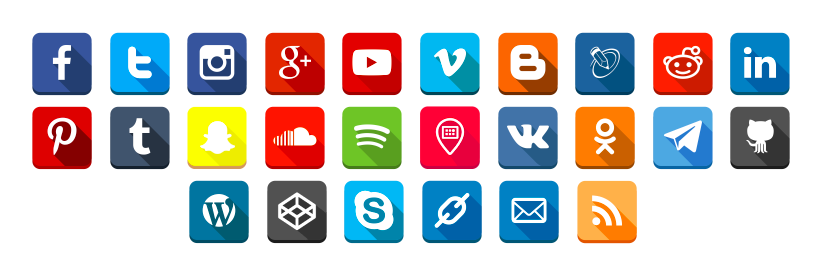
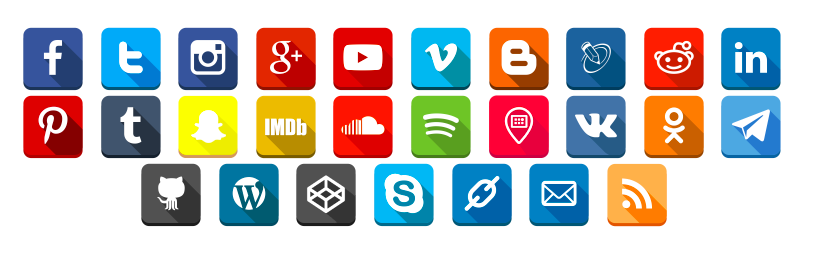
Plugin updated to version 3.8

diff --git a/social-media-buttons-toolbar.php b/social-media-buttons-toolbar.php
@@ -5,7 +5,7 @@
  * Description: Easily add the smart toolbar with social media buttons (not share, only link to your profiles) to any place of your WordPress website.
  * Author: Arthur Gareginyan
  * Author URI: http://www.arthurgareginyan.com
- * Version: 3.7
+ * Version: 3.8
  * License: GPL3
  * Text Domain: social-media-buttons-toolbar
  * Domain Path: /languages/
@@ -40,14 +40,14 @@ defined('ABSPATH') or die("Restricted access!");
 /**
  * Define global constants
  *
- * @since 3.7
+ * @since 3.8
  */
 defined('SMEDIABT_DIR') or define('SMEDIABT_DIR', dirname(plugin_basename(__FILE__)));
 defined('SMEDIABT_BASE') or define('SMEDIABT_BASE', plugin_basename(__FILE__));
 defined('SMEDIABT_URL') or define('SMEDIABT_URL', plugin_dir_url(__FILE__));
 defined('SMEDIABT_PATH') or define('SMEDIABT_PATH', plugin_dir_path(__FILE__));
 defined('SMEDIABT_TEXT') or define('SMEDIABT_TEXT', 'social-media-buttons-toolbar');
-defined('SMEDIABT_VERSION') or define('SMEDIABT_VERSION', '3.7');
+defined('SMEDIABT_VERSION') or define('SMEDIABT_VERSION', '3.8');
 
 /**
  * Register text domain
@@ -308,6 +308,7 @@ function smbtoolbar_tollbar() {
                         text-align: " . $alignment . ";
                     }
                     .smbt-social-icons li {
+                        margin: 0px !important;
                         display: inline-block !important;
                         border-bottom: 0 !important;
                         list-style-type: none;

diff --git a/inc/php/settings_page.php b/inc/php/settings_page.php
@@ -10,7 +10,7 @@ defined('ABSPATH') or die("Restricted access!");
 /**
  * Render Settings Page
  *
- * @since 3.7
+ * @since 3.8
  */
 function smbtoolbar_render_submenu_page() {
 
@@ -158,6 +158,12 @@ function smbtoolbar_render_submenu_page() {
                                                                 'https://www.snapchat.com/add/YourUsernameHere',
                                                                 __( 'Enter the link to your Snapchat profile page', SMEDIABT_TEXT ),
                                                                 'https://www.snapchat.com'
+                                        ); ?>
+                                        <?php smbtoolbar_media( 'imdb',
+                                                                'IMDb',
+                                                                'http://www.imdb.com/name/YourUsernameHere',
+                                                                __( 'Enter the link to your IMDb profile page', SMEDIABT_TEXT ),
+                                                                'http://www.imdb.com'
                                         ); ?>
                                         <?php smbtoolbar_media( 'soundcloud',
                                                                 'SoundCloud',

diff --git a/README.md b/README.md
@@ -41,6 +41,7 @@ It give you finer control over buttons. You can configure they on plugins settin
 * Flickr
 * Tumblr
 * Snapchat
+* IMDb
 * SoundCloud
 * Spotify
 * MeetVibe
@@ -107,7 +108,7 @@ Commercial licensing (e.g. for projects that can’t use an open-source license)
 
 Icon set [Social Buttons 2](https://www.iconfinder.com/iconsets/social-buttons-2?ref=ArthurGareginyan) by Ivlichev Victor Petrovich is licensed under the [Creative Commons (Attribution 3.0 Unported)](http://creativecommons.org/licenses/by/3.0/).
 
-Icons snapchat.png and [meetvibe.png](https://www.iconfinder.com/iconsets/meetvibe?ref=ArthurGareginyan) by [Arthur Gareginyan](http://www.arthurgareginyan.com) and licensed under the [Creative Commons (Attribution 3.0 Unported)](http://creativecommons.org/licenses/by/3.0/).
+Icons [meetvibe.png](https://www.iconfinder.com/iconsets/meetvibe?ref=ArthurGareginyan), [imdb.png and snapchat.png](https://www.iconfinder.com/iconsets/square-logo-buttons) by [Arthur Gareginyan](http://www.arthurgareginyan.com) and licensed under the [Creative Commons (Attribution 3.0 Unported)](http://creativecommons.org/licenses/by/3.0/).
 
 
 ## Author
